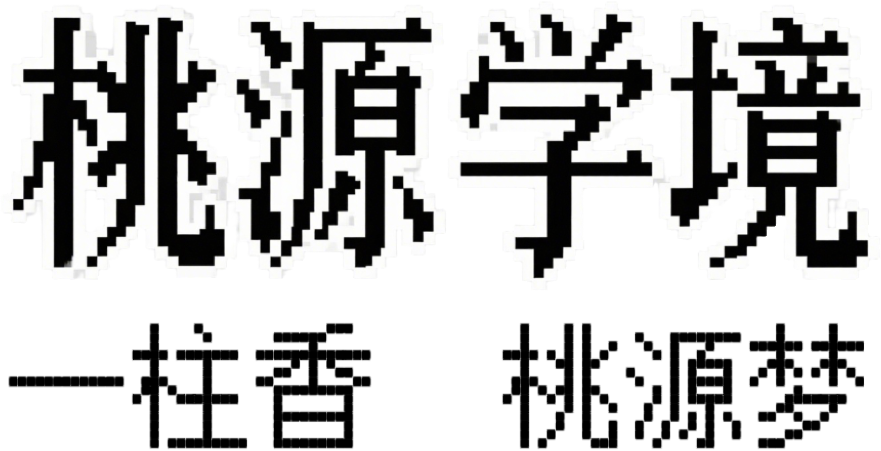
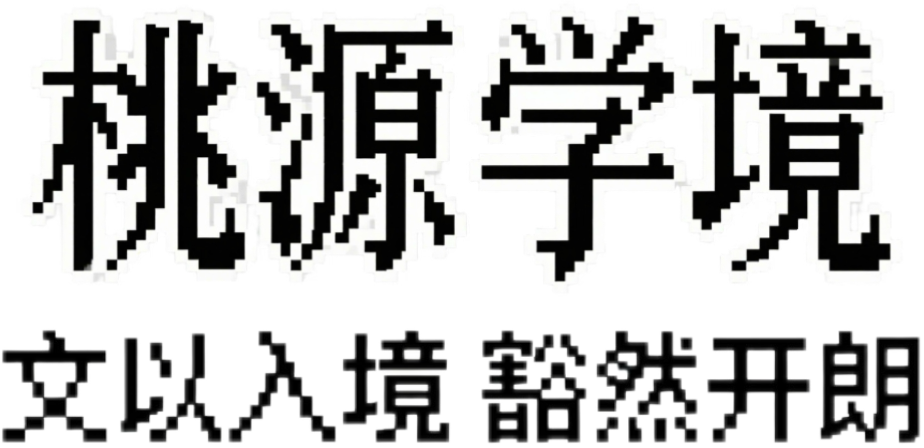
Update project files and add new features

diff --git a/components/ReviewCards.tsx b/components/ReviewCards.tsx
@@ -573,7 +573,7 @@ export default function ReviewCards({ userId }: ReviewCardsProps) {
                     </label>
                     <div className="space-y-2">
                       <div className="flex flex-wrap gap-2">
-                        {['小明', '小红', '阿强', '雅琪', '志华', '美玲', '建国', '秀英'].map((name) => (
+                        {['浩然', '子涵', '思源', '博文', '天宇', '俊杰'].map((name) => (
                           <button
                             key={name}
                             onClick={() => setNewPersona({...newPersona, nickname: name})}
@@ -602,7 +602,7 @@ export default function ReviewCards({ userId }: ReviewCardsProps) {
                     </label>
                     <div className="space-y-2">
                       <div className="flex flex-wrap gap-2">
-                        {['学者', '商人', '武士', '农夫', '医者', '诗人', '官员', '工匠'].map((identity) => (
+                        {['学者', '商人', '武士', '农夫', '医者', '诗人'].map((identity) => (
                           <button
                             key={identity}
                             onClick={() => setNewPersona({...newPersona, identity: identity})}
@@ -629,10 +629,10 @@ export default function ReviewCards({ userId }: ReviewCardsProps) {
                 
                 <div className="mt-4">
                   <label className="block text-sm font-medium text-gray-700 mb-2">
-                    标签 (最多选择2个)
+                    故事标签 (最多选择2个)
                   </label>
                   <div className="flex flex-wrap gap-2 mb-2">
-                    {['勇敢', '智慧', '善良', '坚强', '聪明', '温柔', '正义', '机智'].map((tag) => (
+                    {['勇敢', '智慧', '善良', '懦弱', '幽默', '邪恶', '像庄子一样', '故事如短视频一样'].map((tag) => (
                       <button
                         key={tag}
                         onClick={() => addTag(tag)}
@@ -794,7 +794,7 @@ export default function ReviewCards({ userId }: ReviewCardsProps) {
                       </label>
                       <div className="space-y-2">
                         <div className="flex flex-wrap gap-2">
-                          {['小明', '小红', '阿强', '雅琪', '志华', '美玲', '建国', '秀英'].map((name) => (
+                          {['浩然', '子涵', '思源', '博文', '天宇', '俊杰'].map((name) => (
                             <button
                               key={name}
                               onClick={() => setNewPersona({...newPersona, nickname: name})}
@@ -823,7 +823,7 @@ export default function ReviewCards({ userId }: ReviewCardsProps) {
                       </label>
                       <div className="space-y-2">
                         <div className="flex flex-wrap gap-2">
-                          {['学者', '商人', '武士', '农夫', '医者', '诗人', '官员', '工匠'].map((identity) => (
+                          {[ '商人', '武士', '农夫', '医者', '诗人', '官员'].map((identity) => (
                             <button
                               key={identity}
                               onClick={() => setNewPersona({...newPersona, identity: identity})}
@@ -853,7 +853,7 @@ export default function ReviewCards({ userId }: ReviewCardsProps) {
                       标签 (最多选择2个)
                     </label>
                     <div className="flex flex-wrap gap-2 mb-2">
-                      {['勇敢', '智慧', '善良', '坚强', '聪明', '温柔', '正义', '机智'].map((tag) => (
+                      {['勇敢', '智慧', '善良', '懦弱', '幽默', '邪恶', '像庄子一样', '故事如短视频一样'].map((tag) => (
                         <button
                           key={tag}
                           onClick={() => addTag(tag)}
@@ -1030,7 +1030,7 @@ export default function ReviewCards({ userId }: ReviewCardsProps) {
                     </div>
                     
                     <div className="p-6 border rounded-lg bg-gray-50">
-                      <div className="text-lg text-gray-800 mb-4">
+                      <div className="text-lg text-black mb-4">
                         {examContent.questions[currentQuestionIndex]?.question}
                       </div>
                       
@@ -1058,12 +1058,12 @@ export default function ReviewCards({ userId }: ReviewCardsProps) {
                             } else if (!isSelected && isCorrect) {
                               buttonClass += 'border-green-500 bg-green-50 text-green-700';
                             } else {
-                              buttonClass += 'border-gray-300 bg-gray-50 text-gray-600';
+                              buttonClass += 'border-gray-300 bg-gray-50 text-black';
                             }
                           } else if (isSelected) {
-                            buttonClass += 'border-blue-500 bg-blue-50';
+                            buttonClass += 'border-blue-500 bg-blue-50 text-black';
                           } else {
-                            buttonClass += 'border-gray-300 hover:border-gray-400 hover:bg-gray-50';
+                            buttonClass += 'border-gray-300 hover:border-gray-400 hover:bg-gray-50 text-black';
                           }
                           
                           const isDisabled = hasAnswered && showResult && questionResults[currentQuestionIndex];

diff --git a/components/LearningInterface.tsx b/components/LearningInterface.tsx
@@ -586,19 +586,15 @@ export default function LearningInterface({ scenarioId, userId, onBack }: Learni
           
           {petType && (
             <div className="mb-6">
-              <Image
+              <video
                 src={`/animals/${petType}/bowu/0.mp4`}
-                alt="学习完成纪念"
                 width={256}
                 height={256}
                 className="mx-auto rounded-lg shadow-md object-cover"
-                onError={(e) => {
-                  // 如果0.gif不存在，回退到原来的image_url
-                  const target = e.target as HTMLImageElement;
-                  if (content.image_url) {
-                    target.src = content.image_url;
-                  }
-                }}
+                autoPlay={true}
+                loop={true}
+                muted={true}
+                playsInline={true}
               />
             </div>
           )}
@@ -732,7 +728,7 @@ export default function LearningInterface({ scenarioId, userId, onBack }: Learni
                    <div className="flex flex-wrap items-center text-2xl leading-relaxed">
                      {(currentSentenceData.punctuationExercise || '').split('').map((char, index) => (
                        <span key={index} className="inline-flex items-center">
-                         <span className="mx-1">{char}</span>
+                         <span className="mx-1 text-black">{char}</span>
                          {index < (currentSentenceData.punctuationExercise || '').length - 1 && (
                            <button
                              onClick={() => !punctuationSubmitted && togglePunctuationMark(index + 1)}

diff --git a/components/Dictionary.tsx b/components/Dictionary.tsx
@@ -16,7 +16,7 @@ export default function Dictionary({ userId }: DictionaryProps) {
   const [entries, setEntries] = useState<DictionaryEntry[]>([]);
   const [filteredEntries, setFilteredEntries] = useState<DictionaryEntry[]>([]);
   const [searchTerm, setSearchTerm] = useState('');
-  const [searchType, setSearchType] = useState<'all' | 'word' | 'explanation'>('all');
+  const [searchType, setSearchType] = useState<'word' | 'explanation'>('word');
   const [loading, setLoading] = useState(true);
   const [addingToReview, setAddingToReview] = useState<string | null>(null);
 
@@ -39,7 +39,6 @@ export default function Dictionary({ userId }: DictionaryProps) {
             return entry.字.includes(searchTerm);
           case 'explanation':
             return entry.解释.includes(searchTerm);
-          case 'all':
           default:
             return entry.字.includes(searchTerm) || entry.解释.includes(searchTerm);
         }
@@ -109,14 +108,7 @@ export default function Dictionary({ userId }: DictionaryProps) {
       {/* 搜索框 */}
       <div className="mb-6">
         <div className="flex gap-2 mb-4">
-          <button
-            onClick={() => setSearchType('all')}
-            className={`px-3 py-1 rounded text-sm ${
-              searchType === 'all' ? 'bg-blue-500 text-white' : 'bg-gray-200 text-gray-700'
-            }`}
-          >
-            全部
-          </button>
+
           <button
             onClick={() => setSearchType('word')}
             className={`px-3 py-1 rounded text-sm ${

diff --git a/app/api/generate-exam/route.ts b/app/api/generate-exam/route.ts
@@ -28,7 +28,7 @@ export async function POST(request: NextRequest) {
       : '古代人物';
 
     // 构建系统提示
-    const systemPrompt = `你是优秀的高中语文老师，我的待处理字和词典信息是"${JSON.stringify(dictionary_info)}"，请你根据这些信息，围绕这个【字】，生成一个全新的文言文情景，考察学生的掌握情况。注意：1、文言文的主角需要是${personaDescription}2、保证题目正确。3、严格按照以下示例格式输出情境和两道选择题： 
+    const systemPrompt = `你是优秀的高中语文老师，我的待处理字和词典信息是"${JSON.stringify(dictionary_info)}"，请你根据这些信息，围绕这个【字】，生成一个全新的文言文情景，考察学生的掌握情况。注意：1、文言文的主角/或者故事所发生的情境需要是${personaDescription}2、保证题目正确。3、严格按照以下示例格式输出情境和两道选择题： 
  【文言文情境】  
  航海家宁率众出海，遇飓风，船队困于茫茫大海。淡水将尽，众船员惶恐不安。宁临危不惧，指远处云气曰："吾观天象，三日內必有大雨，当决渎蓄水，以解燃眉之急。"果如其言，暴雨至，宁命人凿船板导水入舱，众得救。后至异邦，国王以珍宝赠之，宁决然辞曰："航海者，志在四方，岂为财帛？"遂扬帆而去。  
  

diff --git a/components/Museum.tsx b/components/Museum.tsx
@@ -161,13 +161,15 @@ export default function Museum({ userId }: MuseumProps) {
             <div className="text-center">
               <h3 className="text-xl font-bold text-gray-800 mb-4">皮肤 {showGif}</h3>
               <div className="mb-4">
-                <Image
+                <video
                   src={`/animals/${petType}/bowu/${showGif}.mp4`}
-                  alt={`皮肤 ${showGif} 动画`}
                   width={300}
                   height={300}
                   className="mx-auto rounded-lg"
-                  unoptimized
+                  autoPlay
+                  loop
+                  muted
+                  playsInline
                 />
               </div>
               <div className="flex gap-2 justify-center">

diff --git a/components/LearningScenarioCreator.tsx b/components/LearningScenarioCreator.tsx
@@ -404,10 +404,10 @@ export default function LearningScenarioCreator({ userId, onScenarioCreated, onC
               />
               
               <div className="flex justify-between items-center text-sm">
-                <span className={`${wordCount > 500 ? 'text-red-600' : 'text-gray-600'}`}>
-                  字数：{wordCount}/500
+                <span className={`${wordCount > 1000 ? 'text-red-600' : 'text-gray-600'}`}>
+                  字数：{wordCount}/1000
                 </span>
-                {wordCount > 500 && (
+                {wordCount > 1000 && (
                   <span className="text-red-600">超出字数限制，请删减内容</span>
                 )}
               </div>

diff --git a/components/AuthModal.tsx b/components/AuthModal.tsx
@@ -62,7 +62,7 @@ export const AuthModal: React.FC<{ isOpen: boolean; onClose: () => void; onSucce
           />
 
           <button type="submit" className="w-full bg-red-800 text-white p-2 rounded">
-            {isRegister ? '注册' : '登录'}
+            <span className="text-white">{isRegister ? '注册' : '登录'}</span>
           </button>
         </form>
         <button onClick={() => setIsRegister(!isRegister)} className="mt-4 text-blue-500">

diff --git a/app/layout.tsx b/app/layout.tsx
@@ -3,7 +3,7 @@ import "./globals.css";
 
 export const metadata: Metadata = {
   title: "桃源学境",
-  description: "一炷香，桃源梦",
+  description: "文以入境 豁然开朗",
 };
 
 export default function RootLayout({
